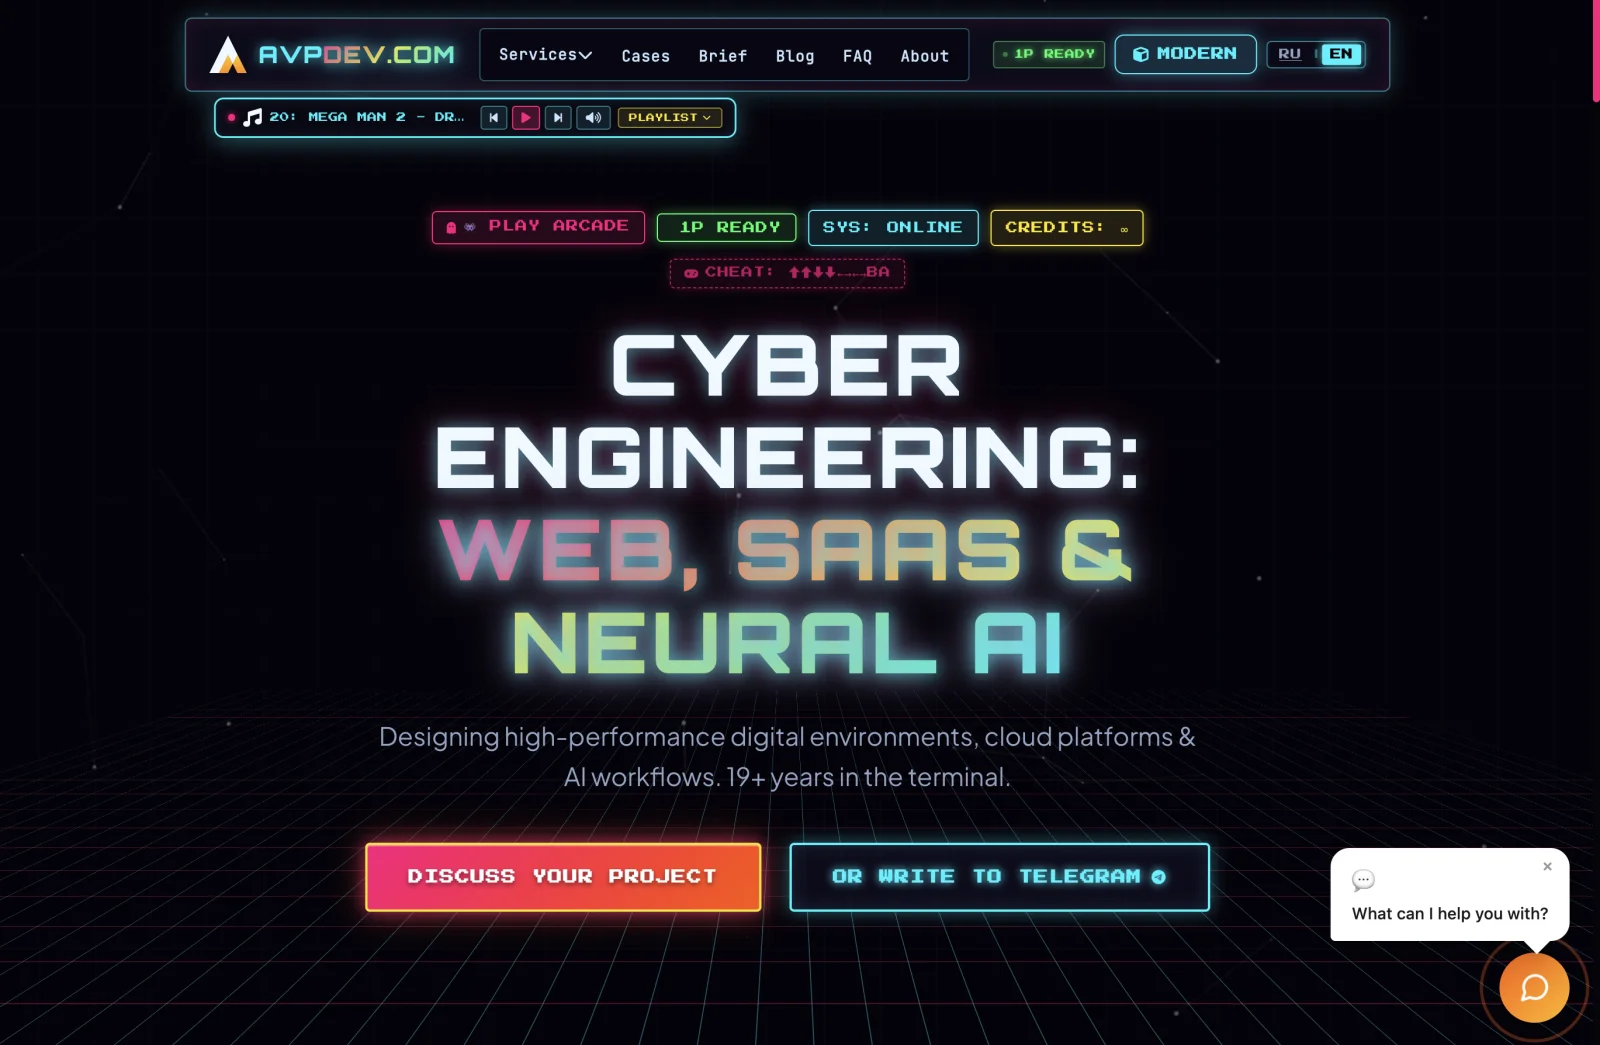
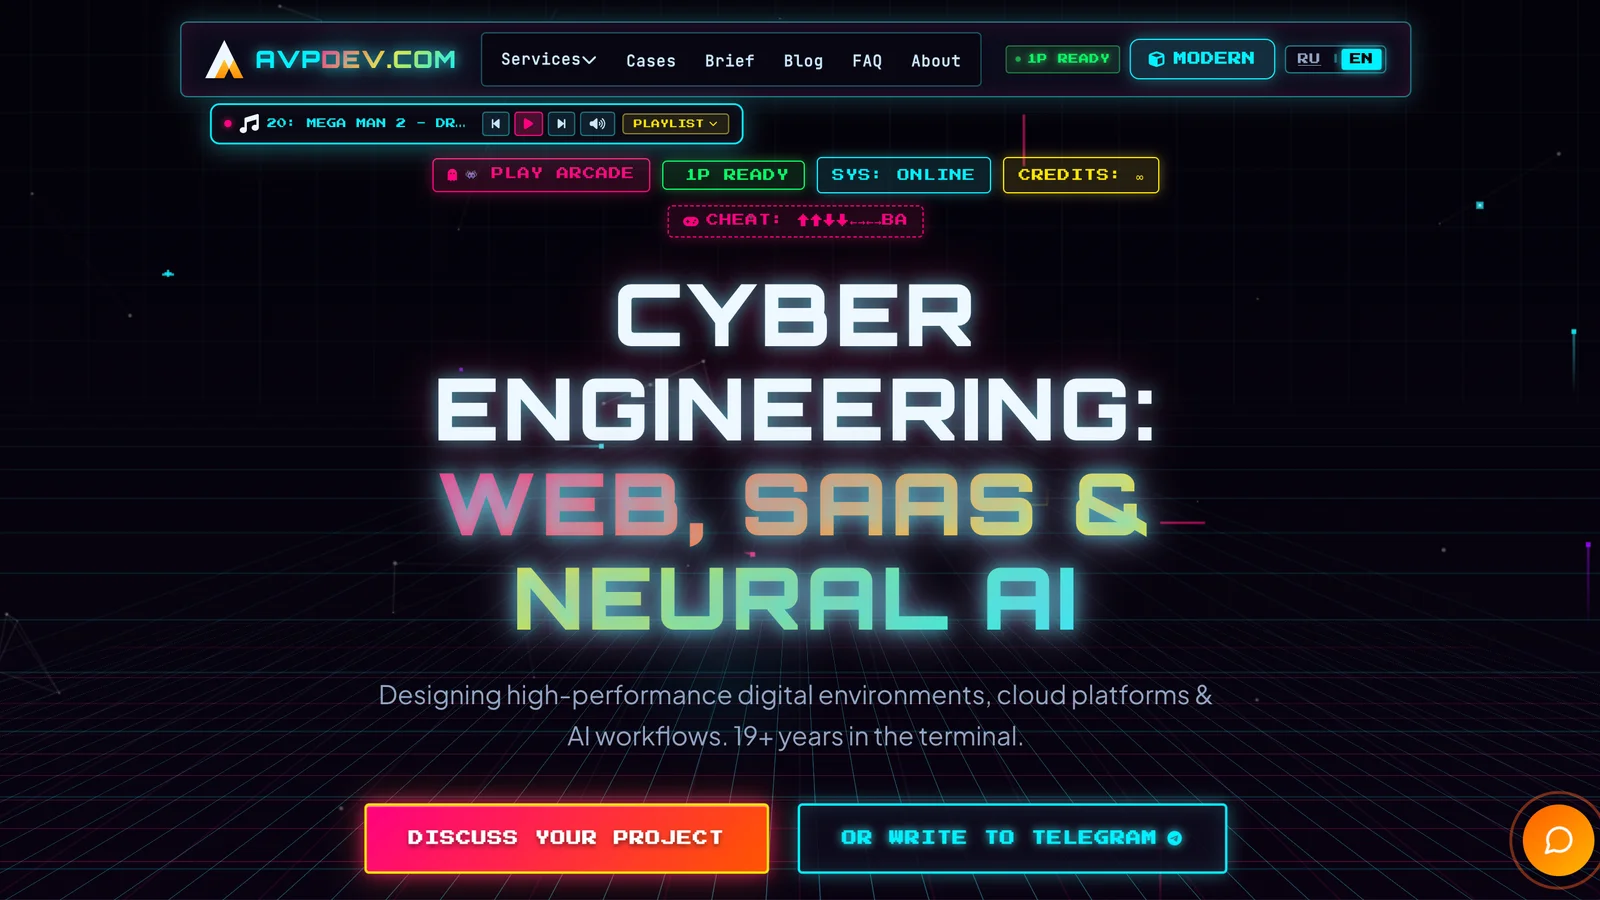
content: publish AI Loves Straight Roads blog post and update LLM reference documentation

diff --git a/src/content/blog/en/ai-loves-straight-roads.md b/src/content/blog/en/ai-loves-straight-roads.md
@@ -4,7 +4,7 @@ description: "Why AI degrades architecture in complex projects. Local greedy sho
 pubDate: 2026-09-14
 heroImage: "../../../assets/images/blog/ai-loves-straight-roads.webp"
 tags: ["AI", "System Architecture", "Technical Debt", "Refactoring", "GitClear", "Engineering"]
-draft: true
+draft: false
 ---
 
 When Redis creator Salvatore Sanfilippo declared that code has become cheap raw material and that line-by-line review is a waste of time ([read my deep dive on that paradox](/en/blog/control-ideas-not-code)), many developers rejoiced: *“Great! We can just generate everything with agents, run automated tests, and never look inside!”*
@@ -59,6 +59,9 @@ The AI shortened the path. It eliminated code. And in doing so, it compromised t
 ---
 
 ### Accidental vs. Essential Complexity
+
+> **Who is Fred Brooks?**  
+> The legendary system architect behind the IBM System/360, Turing Award laureate, and author of the classic software engineering book *The Mythical Man-Month*. Brooks famously established Brooks's Law: adding manpower to a late software project only makes it later.
 
 In his landmark 1986 essay *«No Silver Bullet»*, Fred Brooks divided software engineering complexity into two distinct categories:
 1. **Accidental Complexity:** syntactic boilerplate, configuration quirks, manual type mapping, build tooling. The friction engineers fought for decades.
@@ -121,8 +124,8 @@ Trying to solve this by manually reading every line of generated diff is impossi
 
 What we need is an architectural framework that forces AI agents to **stay strictly on rails designed by human engineers**.
 
-In our next piece, we examine that practical system:  
-👉 **[«The Architect of the Future: Shifting from Line Reviews to Design Reviews»](/en/blog/architect-of-the-future)**.
+In our final piece of the series, we examine that practical system:  
+👉 **“The Architect of the Future: Shifting from Line Reviews to Design Reviews”** (coming September 16).
 
 We explore the **Skeleton + Pluggable Modules** pattern, Salvatore Sanfilippo’s `DESIGN.md` artifact, and an actionable delegation matrix defining what to hand over to AI completely—and what to never let it touch.
 

diff --git a/src/content/blog/ru/control-ideas-not-code.md b/src/content/blog/ru/control-ideas-not-code.md
@@ -125,7 +125,7 @@ draft: false
 
 *Но почему именно ИИ с такой легкостью разрушает архитектуру, когда задача становится хоть немного сложнее лендинга или CRUD-таблицы? Почему он постоянно выбирает решения, которые кажутся элегантными в моменте, но превращают систему в ад через месяц?*
 
-Об этом я подробно расскажу в следующем материале серии: **«AI любит прямые дороги: почему локальная оптимизация рушит сложные системы»** (выйдет уже скоро).
+Об этом я подробно рассказываю в следующей статье серии: **[«AI любит прямые дороги: почему локальная оптимизация рушит сложные системы»](/ru/blog/ai-loves-straight-roads)**.
 
 > **Полезный ресурс:**  
 > Если вы хотите сразу внедрить правильные системные рельсы и шаблоны архитектурных спецификаций для работы с coding-агентами — загляните в мой открытый стартер: **[AVP-Dev / agent-starter-kit на GitHub](https://github.com/AVP-Dev/agent-starter-kit)**.

diff --git a/src/content/blog/en/control-ideas-not-code.md b/src/content/blog/en/control-ideas-not-code.md
@@ -125,7 +125,7 @@ If an architect misjudges the system design, an agent will churn out 10,000 line
 
 *Why is it that AI breaks system architecture so easily the moment a task goes beyond a script or a basic CRUD endpoint? Why does it consistently favor shortcuts that look clean today but turn into maintenance nightmares tomorrow?*
 
-We will examine this in detail in the upcoming article of the series: **“AI Loves Straight Roads: Why Local Optimization Breaks Complex Systems”** (coming soon).
+We examine this in detail in the next article of the series: **[“AI Loves Straight Roads: Why Local Optimization Breaks Complex Systems”](/en/blog/ai-loves-straight-roads)**.
 
 > **Open-Source Resource:**  
 > If you want to integrate robust architectural rails and specification templates for coding agents into your projects today, check out my open starter: **[AVP-Dev / agent-starter-kit on GitHub](https://github.com/AVP-Dev/agent-starter-kit)**.
